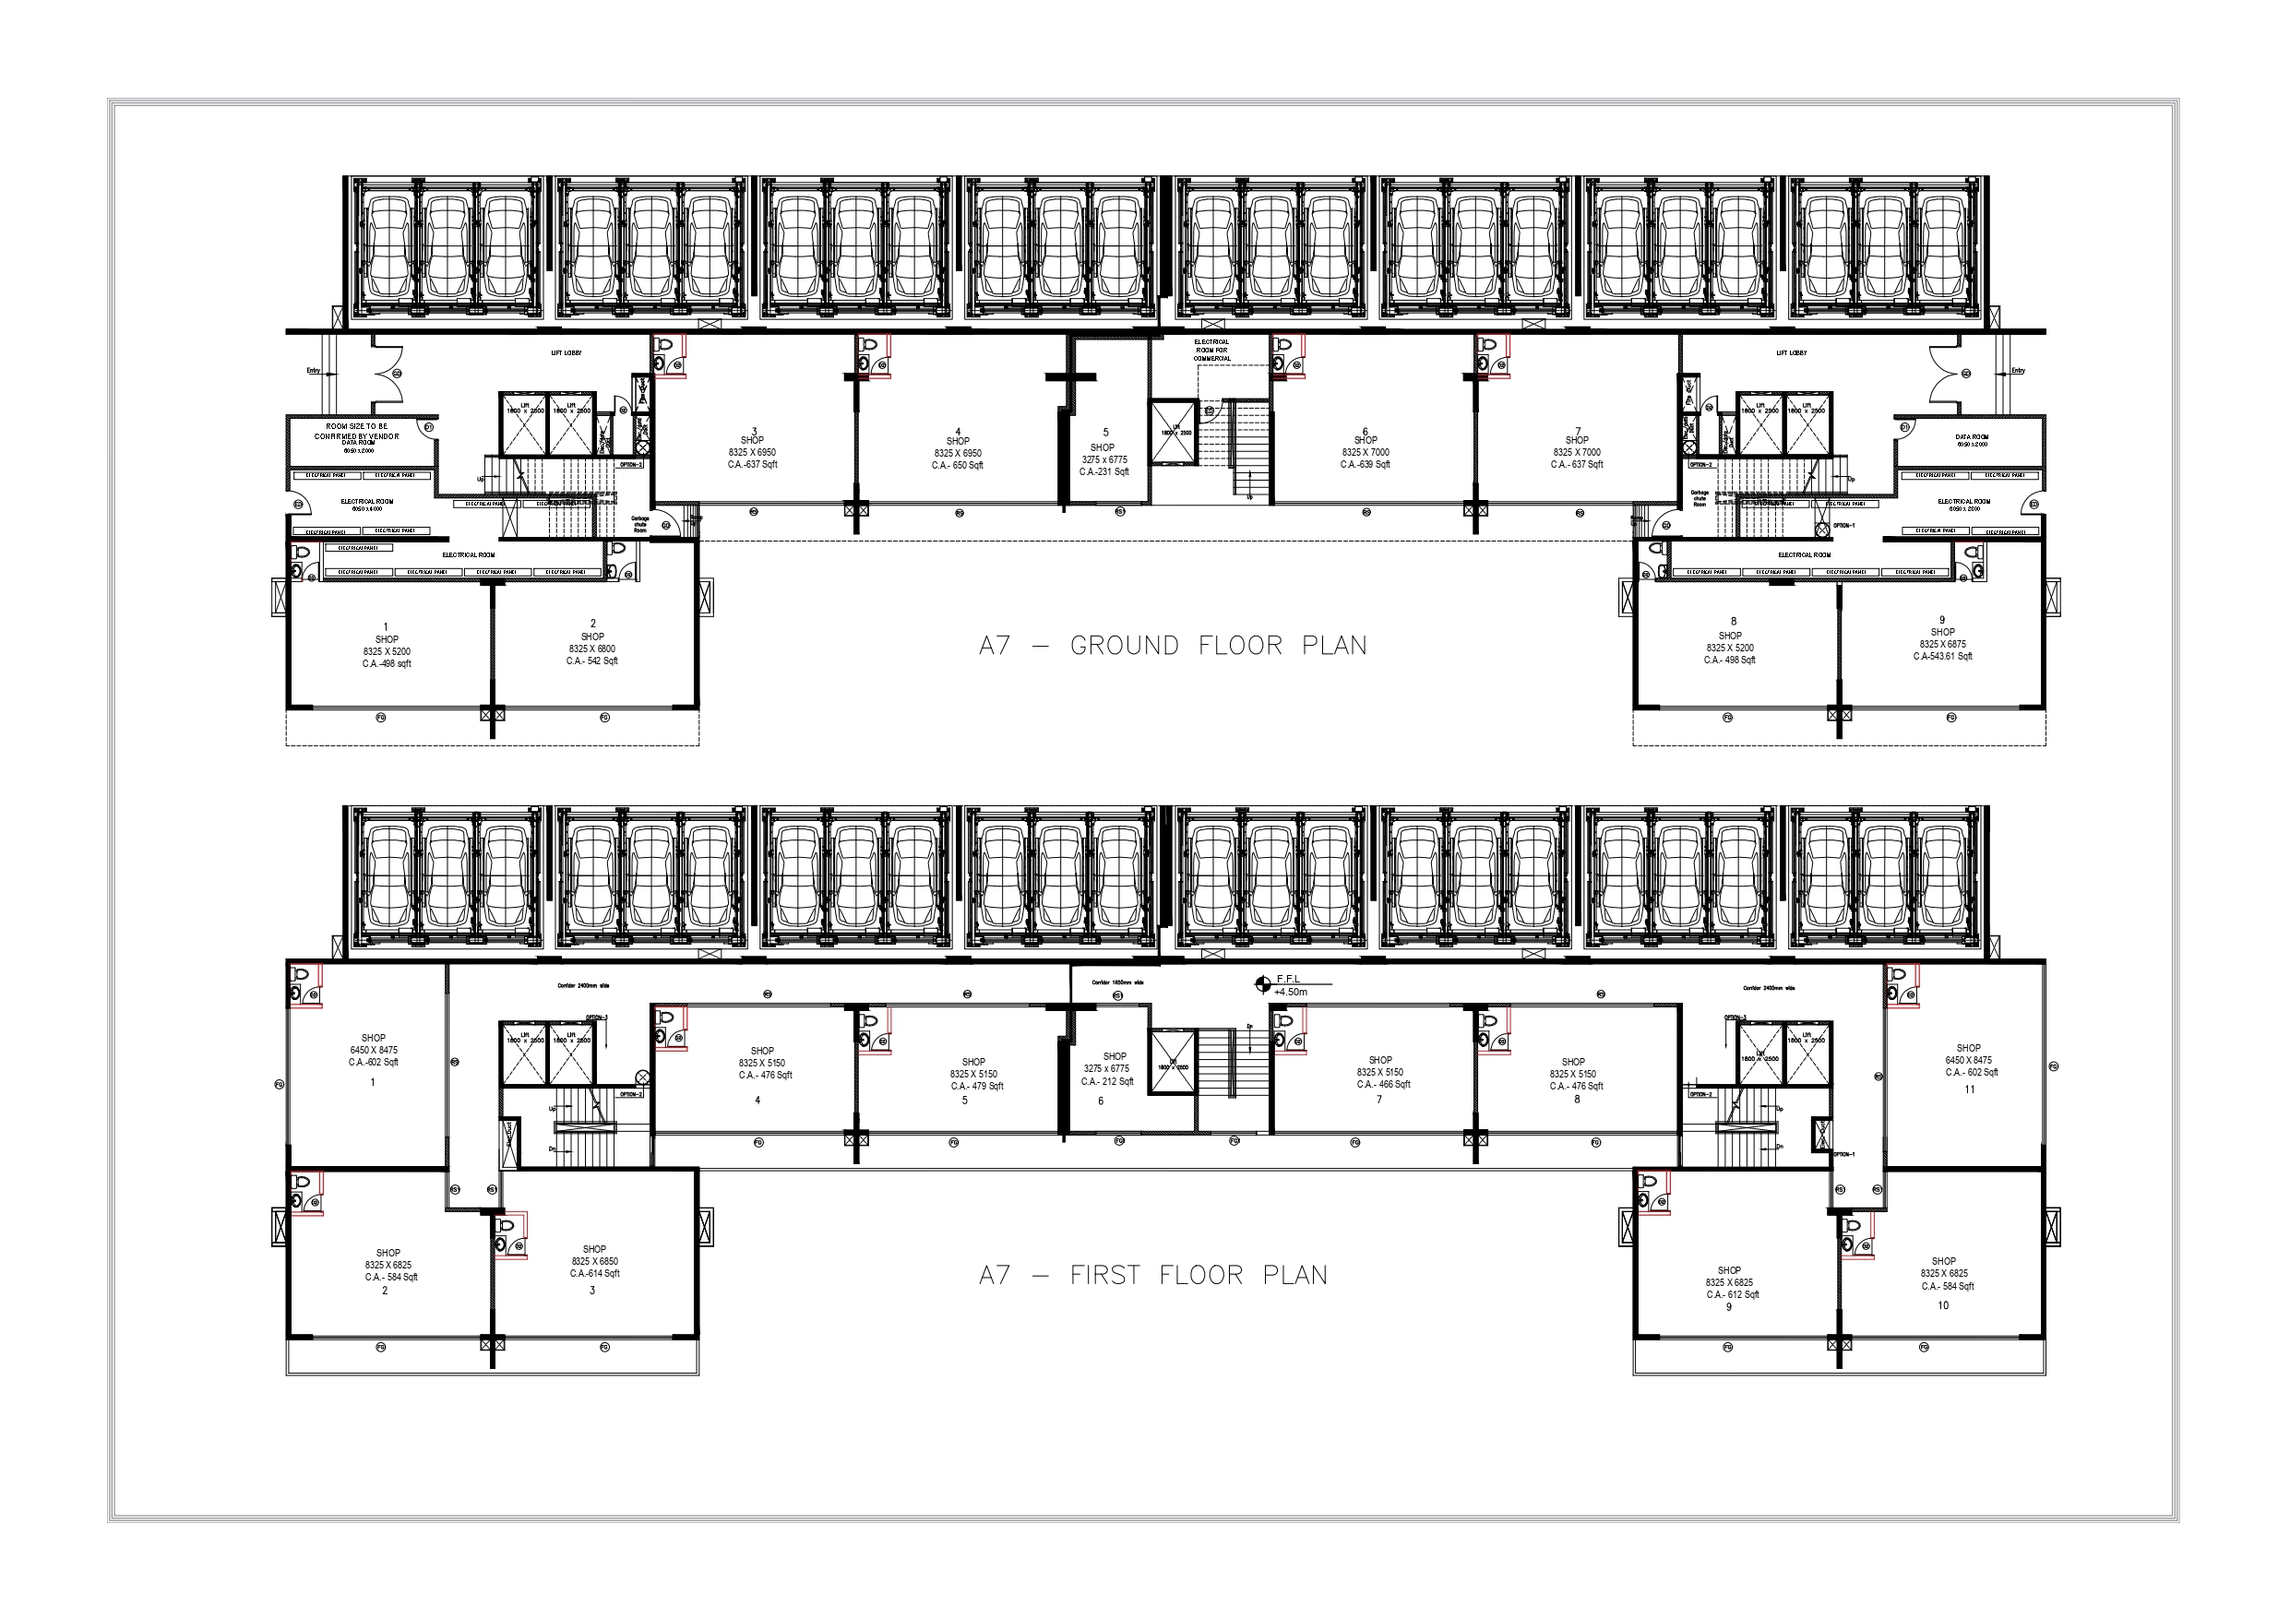
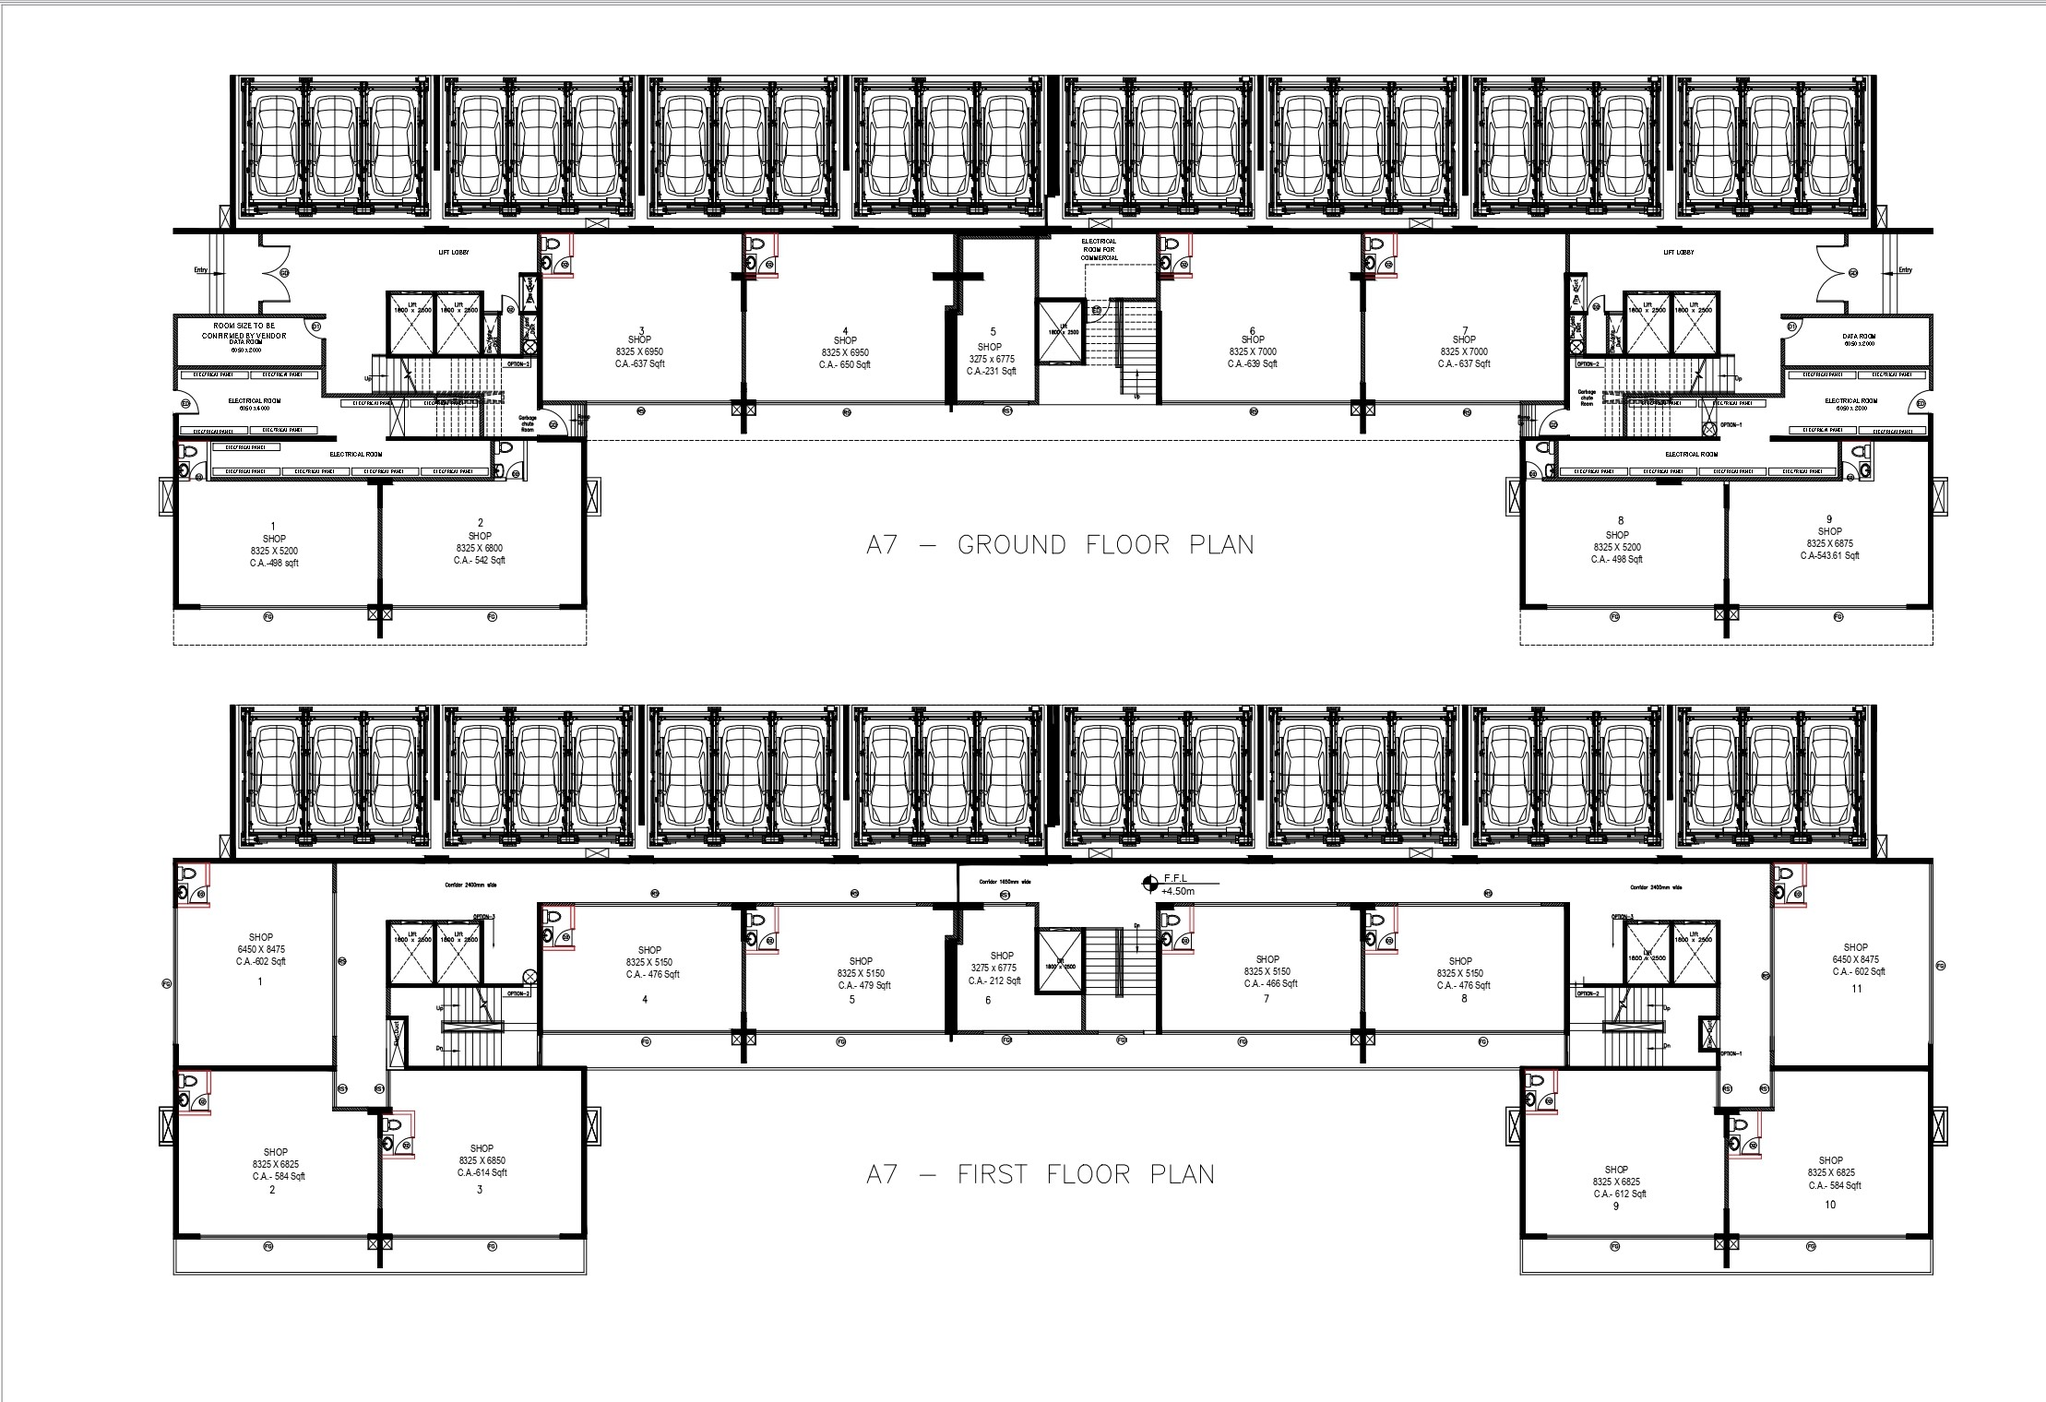
updated

diff --git a/src/components/comercial Properties/AreteSec.js b/src/components/comercial Properties/AreteSec.js
@@ -21,7 +21,7 @@ import React from "react";
 import arete1 from "../commercial-properties imgs/ARETE PLAZA2.jpg";
 import arete2 from "../commercial-properties imgs/ARETE PLAZA4.jpg";
 import arete3 from "../commercial-properties imgs/ARETE PLAZA3.jpg";
-import aretefloor from "../commercial-properties imgs/A7 commercial with C.A_pages-to-jpg-0001.jpg";
+import aretefloor from "../commercial-properties imgs/COMERCIAL.jpg";
 import institute from "../commercial-properties imgs/INSTITUTES.svg";
 import industry from "../commercial-properties imgs/INDUSTRY.svg";
 import locationadv from "../commercial-properties imgs/Asset 1-100.jpg";
@@ -90,7 +90,7 @@ const AreteSec = () => {
           align="center"
           justify="center"
           pt="3.125rem"
-          pb="6.25rem"
+          pb="5rem"
         >
           <Text
             textAlign="center"
@@ -126,7 +126,12 @@ const AreteSec = () => {
         </Flex>
         <Flex w="100%" h="100%" align="flex-start" justify="space-between">
           <Flex w="60%" alignSelf="flex-start">
-            <Image w="100%" h="29.25rem" src={aretefloor} />
+            <Image
+              w="100%"
+              h="29.25rem"
+              src={aretefloor}
+              border="1px solid grey"
+            />
           </Flex>
           <Flex
             w="10%"
@@ -138,7 +143,7 @@ const AreteSec = () => {
           >
             {" "}
             <Divider
-              h="8rem"
+              h="6rem"
               orientation="vertical"
               border="3px solid"
               borderColor="#DFBD69"
@@ -198,7 +203,7 @@ const AreteSec = () => {
           w="100%"
           h="100%"
           direction="column"
-          pt="6.25rem"
+          pt="5rem"
           align="center"
           justify="center"
           pb="3.125rem"
@@ -206,11 +211,12 @@ const AreteSec = () => {
           <Text fontFamily="goudy" pb="3.125rem" fontSize="2.5rem">
             LOCATION ADVANTAGE
           </Text>
-          <Flex w="100%" h="100%" justify="space-between" pb="1.563rem">
+          <Flex w="100%" h="100%" justify="space-between" pb="3.125rem">
             <Flex
+              w="30%"
               h="100%"
               direction="column"
-              align="flex-start"
+              alignSelf="center"
               justify="center"
             >
               <Flex pb="1.5rem">
@@ -332,7 +338,14 @@ const AreteSec = () => {
               />
             </Flex>
             <Flex>
-              <Image boxShadow="lg" w="45rem" h="30rem" src={locationadv} />
+              <Image
+                boxShadow="lg"
+                w="45rem"
+                h="29.25rem"
+                objectFit="cover"
+                objectPosition="center"
+                src={locationadv}
+              />
             </Flex>
           </Flex>
           <Flex w="100%">
@@ -498,8 +511,8 @@ const AreteSec = () => {
         <Flex
           w="100%"
           h="100%"
-          pt="3.125rem"
-          pb="6.25rem"
+          pt="1.875rem"
+          pb="5rem"
           align="center"
           justify="center"
           direction="column"
@@ -508,7 +521,7 @@ const AreteSec = () => {
             fontSize="2.5rem"
             fontFamily="goudy"
             textTransform="uppercase"
-            pb="3.125rem"
+            pb="1.563rem"
           >
             pre book & avail best offers
           </Text>
